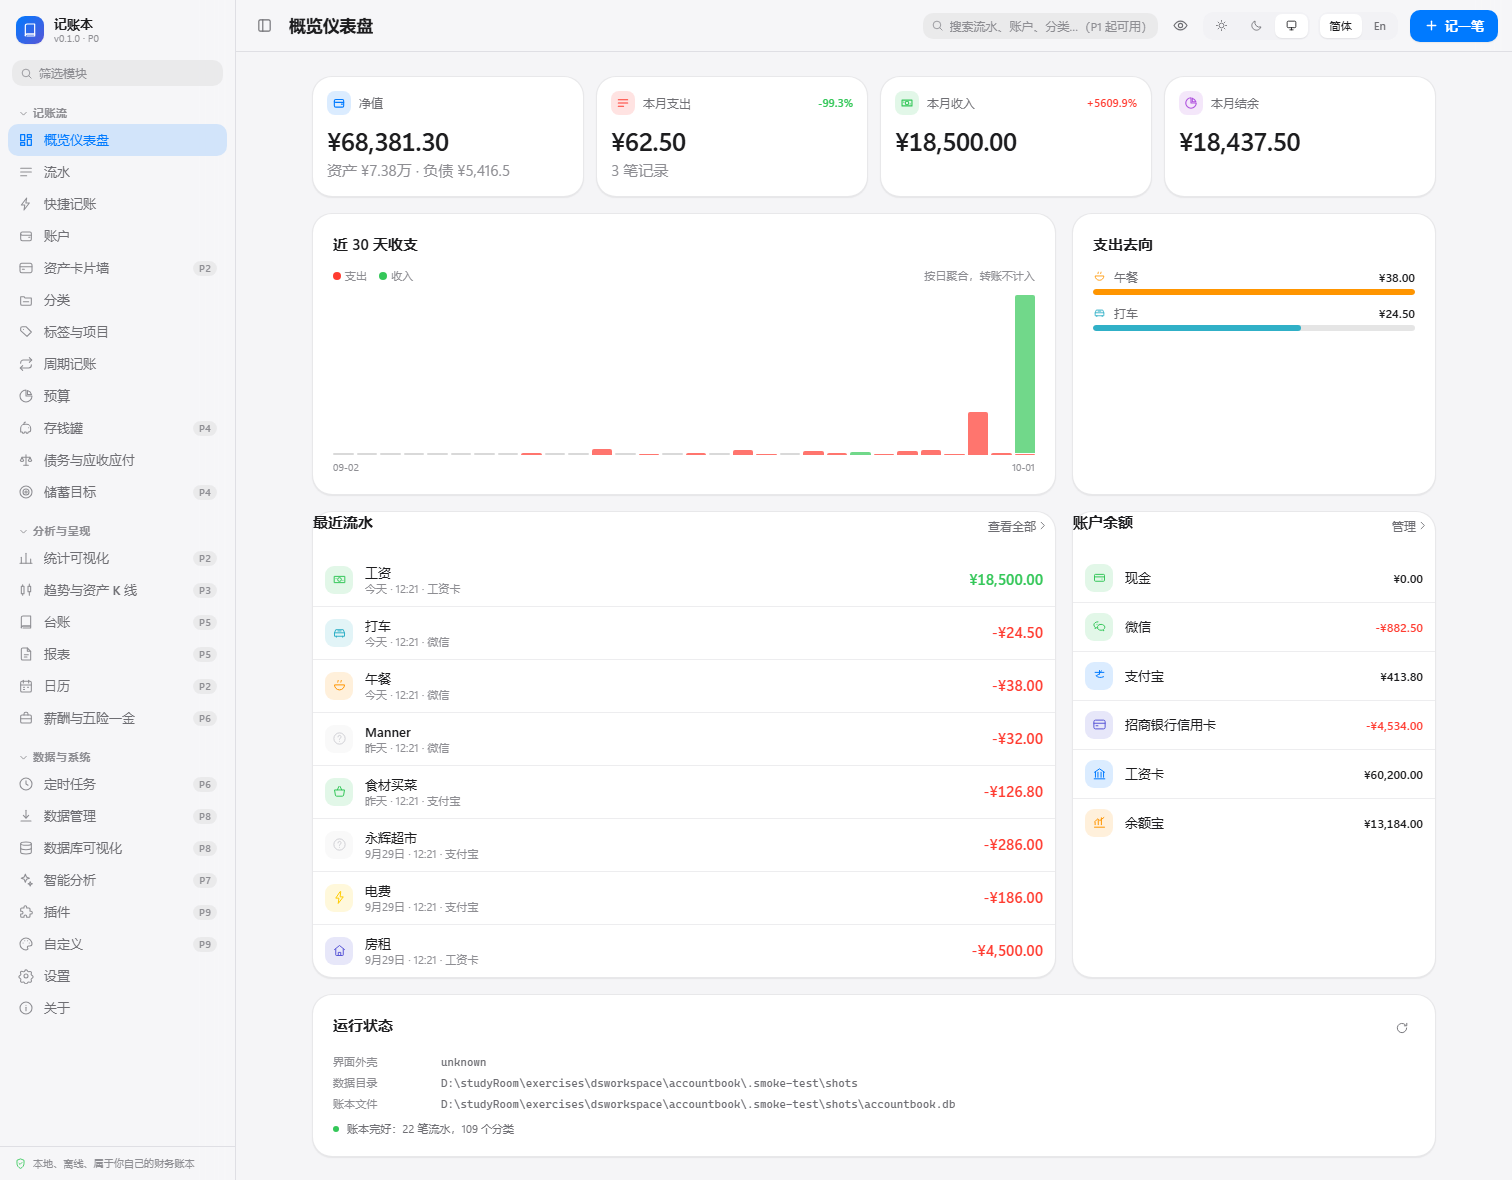
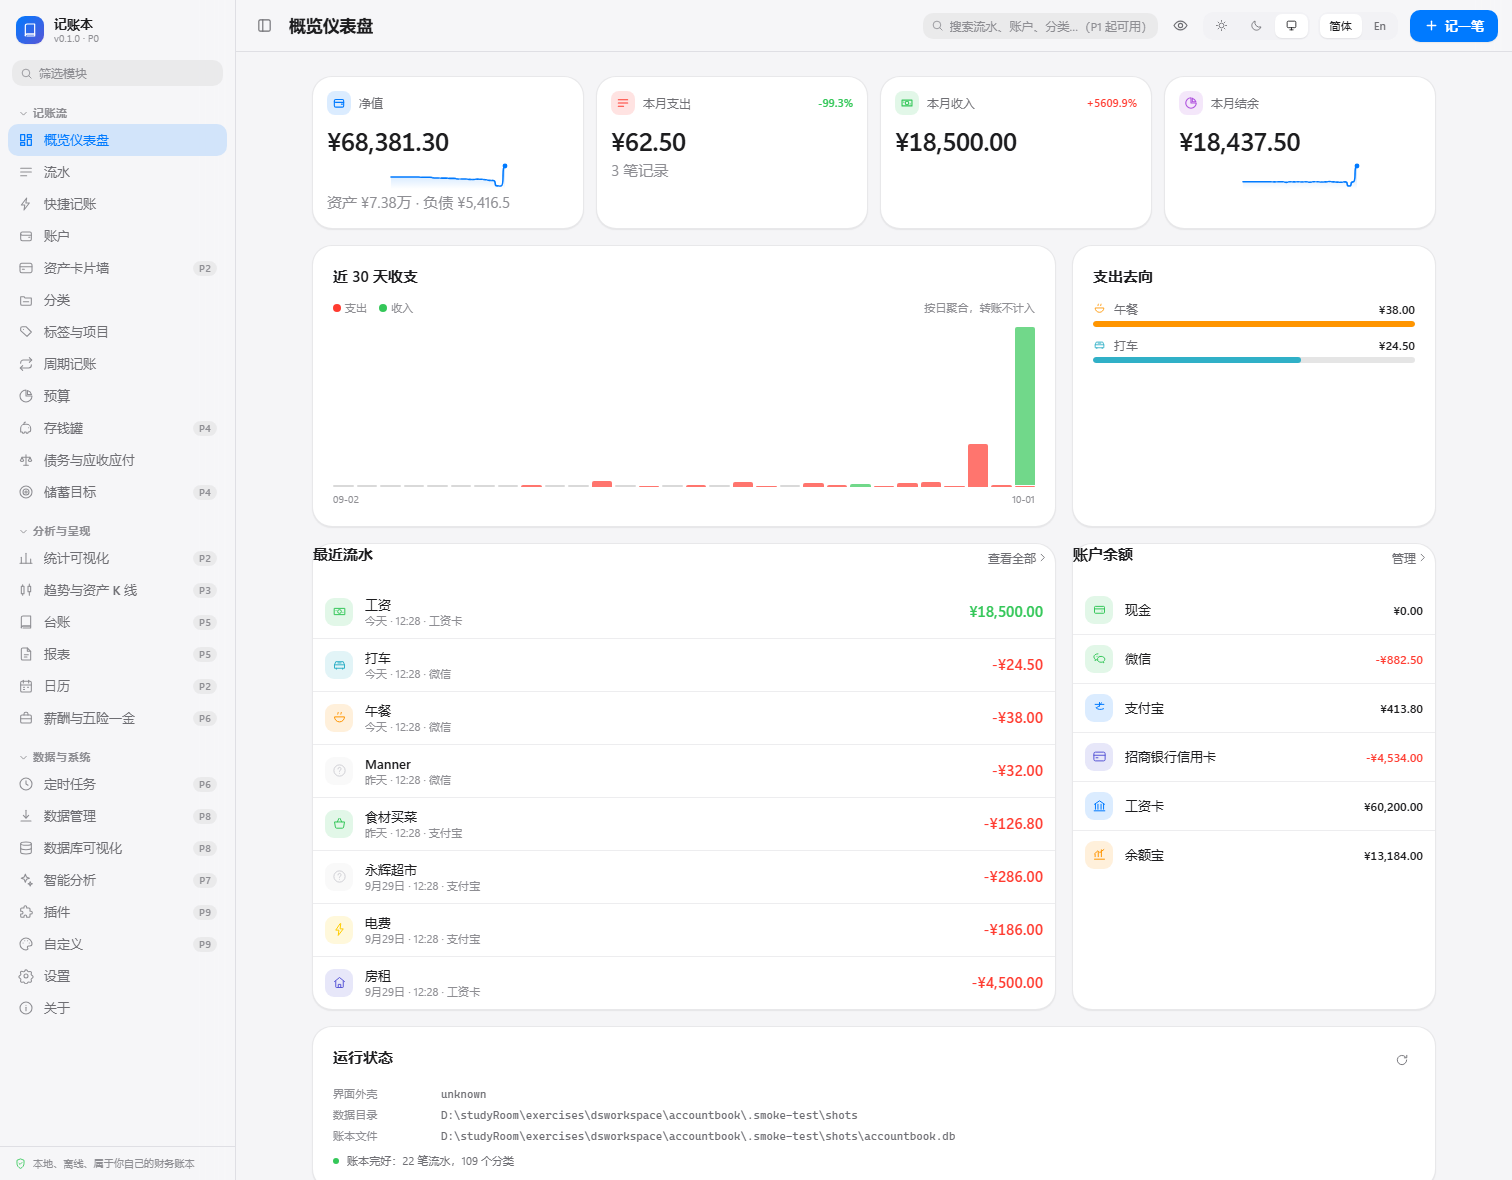
feat(P2): KPI 微图表与净值趋势口径统一
补齐 P2 最后两项
----------------
* **KPI 微图表**：仪表盘的「净值」与「本月结余」卡内嵌自研 SVG Sparkline，
  让"最近在怎么变"与"现在是多少"出现在同一视线里。
* **净值并入仪表盘趋势**：`/api/stats/dashboard` 的 `trend` 新增
  `net_minor` 与 `net_worth_minor`。

为什么净值必须由后端给，而不是前端用"收入减支出"算
--------------------------------------------------
净值受**转账与账户起点余额**影响，不等于当日收入减支出。
让前端自己拼会是另一套口径 —— 首页的迷你趋势线会与日历/统计页
给出不一致的形状，而用户无从判断哪个对。因此净值一律取自
`daily_stats`（时序数据的唯一来源），只是把它并入趋势返回。

文档
----
* DATA_MODEL.md 补入 P2 的 5 张新表（institutions / card_artworks /
  daily_stats / asset_snapshots / day_events）与派生缓存的完整说明：
  脏标记 + 读取时懒重算、净值的累计语义、派生量不重复落库的理由；
* 至此 objectives 里要求的 DATA_MODEL / CALENDAR_METRICS / ACCEPTANCE_P2
  三份文档全部更新完毕。

验证
----
* pytest 318 项全绿；ruff check/format、tsc --noEmit、vite build 全部通过；
* PyInstaller 打包 + 冒烟通过（56.3 MB）；
* 仪表盘截图确认：两张 KPI 卡出现迷你趋势线，
  且分类图标颜色恢复正常（color token 修复的可见结果）。

diff --git a/web/src/pages/Dashboard.tsx b/web/src/pages/Dashboard.tsx
@@ -21,6 +21,7 @@ import { useCallback, useEffect, useState } from 'react'
 import { Link } from 'react-router-dom'
 
 import { CountUp } from '@/components/CountUp'
+import { Sparkline } from '@/components/Sparkline'
 import { Icon, type IconName } from '@/components/Icon'
 import { Card, EmptyState, Skeleton } from '@/components/ui'
 import { staggerContainer, staggerItem } from '@/design/motion'
@@ -43,6 +44,9 @@ interface MetricProps {
   value: string
   /** 原始金额（最小单位）。提供后数字会滚动过渡，让「变了多少」可见 */
   minor?: number
+  /** KPI 卡内的迷你趋势线（微图表）。点数不宜超过 60，否则线会糊成一片 */
+  spark?: number[]
+  sparkTone?: 'accent' | 'positive' | 'negative' | 'warning' | 'purple' | 'teal'
   delta?: number | null
   hint?: string
 }
@@ -53,7 +57,7 @@ interface MetricProps {
  * 环比为 `null` 时显示 `—` 而不是 0% 或 +100%：
  * "上期是 0，这期是 500"在数学上没有变化率，编一个出来是骗人。
  */
-function MetricCard({ label, icon, tone, value, minor, delta, hint }: MetricProps) {
+function MetricCard({ label, icon, tone, value, minor, spark, sparkTone, delta, hint }: MetricProps) {
   return (
     <motion.div variants={staggerItem}>
       <Card dense className="h-full">
@@ -84,6 +88,19 @@ function MetricCard({ label, icon, tone, value, minor, delta, hint }: MetricProp
         <div className="ab-metric mt-2.5">
           {minor === undefined ? value : <CountUp value={minor} />}
         </div>
+        {/* KPI 微图表：让"最近在怎么变"与"现在是多少"出现在同一个视线里。
+            放在数字下方而不是右侧，是为了不挤压金额的显示宽度（大额会换行）。 */}
+        {spark && spark.length > 1 ? (
+          <Sparkline
+            points={spark}
+            tone={sparkTone ?? (tone === 'negative' ? 'negative' : tone === 'positive' ? 'positive' : 'accent')}
+            height={26}
+            filled
+            showLastPoint
+            className="mt-1.5 w-full"
+            title={hint ?? label}
+          />
+        ) : null}
         {hint ? <div className="mt-0.5 text-ab-caption1 text-label-3">{hint}</div> : null}
       </Card>
     </motion.div>
@@ -190,6 +207,8 @@ export function DashboardPage() {
           tone="accent"
           value={displayMinor(data.net_worth.net_worth_minor, 'CNY', preferences.privacy_mode)}
           minor={data.net_worth.net_worth_minor}
+          spark={data.trend.map((day) => day.net_worth_minor)}
+          sparkTone="accent"
           hint={t('dashboard.assetsHint', {
             assets: compactMinor(data.net_worth.assets_minor),
             liabilities: compactMinor(data.net_worth.liabilities_minor),
@@ -218,6 +237,7 @@ export function DashboardPage() {
           tone="purple"
           value={displayMinor(data.month.net_minor, 'CNY', preferences.privacy_mode)}
           minor={data.month.net_minor}
+          spark={data.trend.map((day) => day.net_minor)}
         />
       </motion.div>
 

diff --git a/web/src/lib/api.ts b/web/src/lib/api.ts
@@ -384,7 +384,18 @@ export interface DashboardData {
     expense_change: number | null
     top_categories: CategoryBreakdownItem[]
   }
-  trend: { date: string; income_minor: number; expense_minor: number; transaction_count: number }[]
+  /** 近 N 天的逐日趋势。
+et_worth_minor 与 
+et_minor 口径不同：
+   *  前者来自日结缓存（含转账与起点余额），后者只是当日收入减支出 */
+  trend: {
+    date: string
+    income_minor: number
+    expense_minor: number
+    net_minor: number
+    net_worth_minor: number
+    transaction_count: number
+  }[]
   recent_transactions: Transaction[]
   accounts: AccountOverviewItem[]
 }

diff --git a/src/accountbook/services/stats.py b/src/accountbook/services/stats.py
@@ -26,6 +26,7 @@ from sqlalchemy.orm import Session
 from ..core.domain import TRANSFER_TYPES, TransactionStatus
 from ..db.models import Account, Category, Transaction, TransactionSplit
 from . import accounts as accounts_service
+from . import daily as daily_service
 from . import transactions as transactions_service
 
 __all__ = [
@@ -111,6 +112,12 @@ def dashboard(
 
     trend_start, trend_end = range_bounds(trend_days, end=today)
     trend = transactions_service.daily_totals(session, start=trend_start.date(), end=trend_end.date())
+    # 净值按日取自日结缓存（时序数据的唯一来源），而不是在首页另算一遍 ——
+    # 前端自己用"收入减支出"当净值会是另一个口径（净值还受转账与起点余额影响）
+    net_worth_by_day = {
+        date.fromisoformat(item["date"]): int(item["net_worth_minor"])
+        for item in daily_service.net_worth_series(session, start=trend_start.date(), end=trend_end.date())
+    }
 
     return {
         "reference_date": today.isoformat(),
@@ -136,6 +143,11 @@ def dashboard(
                 "date": item.day.isoformat(),
                 "income_minor": item.income_minor,
                 "expense_minor": item.expense_minor,
+                "net_minor": item.income_minor - item.expense_minor,
+                # 净值也放进趋势里：首页的 KPI 卡要用它画迷你趋势线。
+                # 让前端自己去拼（收-支）会是另一个口径 —— 净值受转账与
+                # 账户起点余额影响，不等于"收入减支出"。
+                "net_worth_minor": net_worth_by_day.get(item.day, 0),
                 "transaction_count": item.transaction_count,
             }
             for item in trend

diff --git a/docs/DATA_MODEL.md b/docs/DATA_MODEL.md
@@ -32,6 +32,31 @@
 | `transaction_tags` | 流水-标签多对多 | — |
 | `app_settings` | 应用级键值（`seed_version` 等） | — |
 | `audit_log` | 变更审计（**只记字段级差异，不存正文**） | — |
+| `institutions` | 机构字典（P2）。用**稳定键**而非名称关联账户，改名不会让卡面失效 | ✓ |
+| `card_artworks` | 卡面配方（P2）。渐变/纹理/光泽的 JSON，**不是位图** | — |
+| `daily_stats` | 每日汇总缓存（P2）。日历与日粒度图表的唯一数据源 | — |
+| `asset_snapshots` | 每日每账户收盘余额（P2）。一切时序图与净值曲线的唯一数据源 | — |
+| `day_events` | 当日事件日志（P2）。事件/心情/纪念日/备注/待办共用，差别只在 `kind` | ✓ |
+
+### 2.1 P2 的派生缓存：口径见 `docs/CALENDAR_METRICS.md`
+
+`daily_stats` 与 `asset_snapshots` 是**派生缓存，不是事实来源**。
+`transactions` 才是唯一事实来源，缓存随时可由流水重算：
+
+```
+变更流水/账户  →  mark_dirty_from(受影响起始日)
+读取日历/时序  →  ensure_fresh(区间)  →  脏则重算  →  返回
+```
+
+这样正确性**不依赖调用方记得刷新**：忘记标脏只是多算一次，
+忘记重算会让用户看到错数据 —— 两者严重程度差得远，所以偏保守。
+
+**净值是累计量**：插入一笔历史流水会改变此后每一天的余额，
+因此重算区间一定延伸到"今天"，而不是只算被改动的那一天。
+
+派生量**不重复落库**：例如"当日净值变化率"完全可由相邻两天的
+`net_worth_minor` 推出，就在读取时现算。每个派生量都存一份会让缓存表越来越宽，
+而每一列都是一次"忘了同步就出错"的机会。
 
 ---
 
